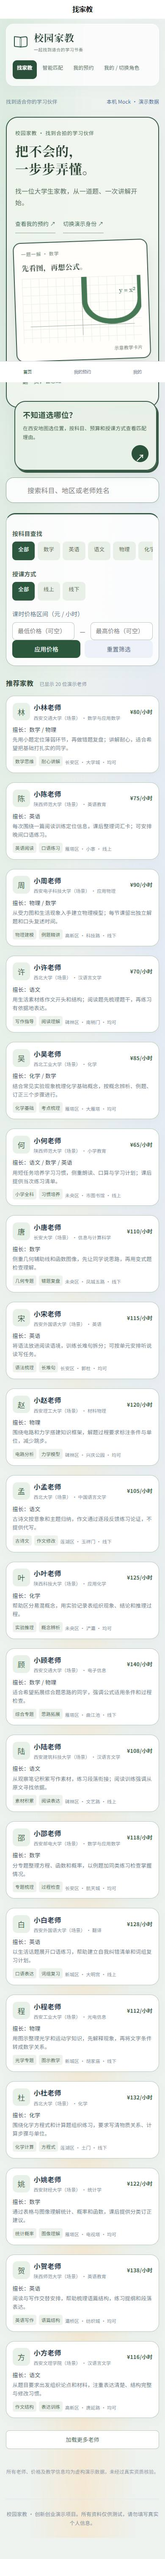
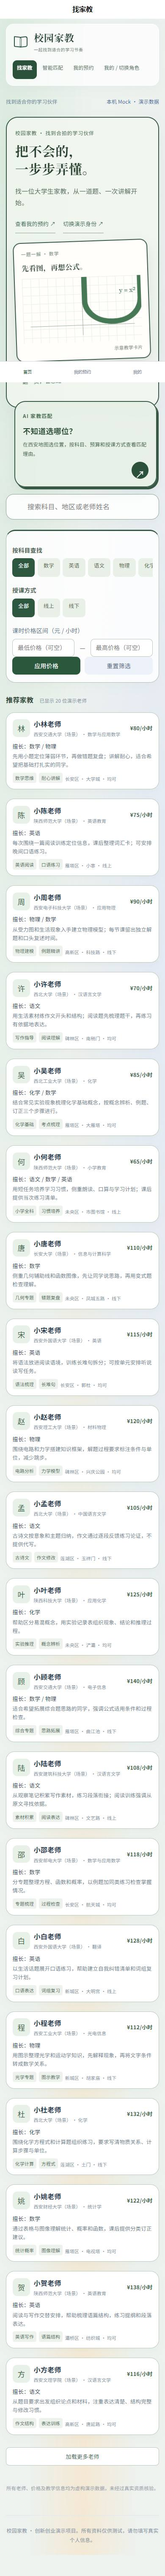
fix: restore AI matching entry for browser flows

Changed region(s): [[0.0308, 0.0, 0.9538, 0.9673], [0.6462, 0.8113, 0.7385, 0.8737]]

diff --git a/src/pages/index/index.vue b/src/pages/index/index.vue
@@ -66,7 +66,7 @@ const openProfile = () => uni.switchTab({ url: '/pages/profile/index' })
 <template>
   <ParentLayout title="找到适合你的学习伙伴" active="home"><view class="page">
     <view class="hero"><view class="hero-copy"><text class="eyebrow">校园家教 · 找到合拍的学习伙伴</text><text class="headline">把不会的，<br/>一步步弄懂。</text><text class="intro">找一位大学生家教，从一道题、一次讲解开始。</text><view class="links"><text @click="openOrders">查看我的预约 ↗</text><text @click="openProfile">切换演示身份 ↗</text></view></view><LessonFlip/></view>
-    <button class="ai-entry" @click="openMatch"><text class="ai-title">不知道选哪位？</text><text class="ai-note">在西安地图选位置，按科目、预算和授课方式查看匹配理由。</text><text class="ai-arrow" aria-hidden="true">↗</text></button>
+    <button class="ai-entry" @click="openMatch"><text class="ai-kicker">AI 家教匹配</text><text class="ai-title">不知道选哪位？</text><text class="ai-note">在西安地图选位置，按科目、预算和授课方式查看匹配理由。</text><text class="ai-arrow" aria-hidden="true">↗</text></button>
     <input v-model="query" class="search" placeholder="搜索科目、地区或老师姓名"/>
     <view class="filter-panel"><view class="heading">按科目查找</view>
     <scroll-view scroll-x><view class="filters"><text v-for="s in subjects" :key="s" class="chip" :class="{ active: subject === s }" @click="subject = s">{{ s }}</text></view></scroll-view>

diff --git a/src/styles/campus-theme.css b/src/styles/campus-theme.css
@@ -73,3 +73,5 @@ button:focus-visible,.chip:focus-visible,.b-chip:focus-visible,.brand:focus-visi
 .t-wrap.t-wrap .t-back{color:#2e6243}
 .t-wrap.t-wrap .t-preview{background:#f9fbf7;border-color:#a9c2aa}
 @media(max-width:700px){.t-wrap.t-wrap .t-hero{padding:20px 17px}.t-wrap.t-wrap .t-card{padding:18px 15px}}
+.parent-shell .ai-kicker{display:block;color:#476a4d;font-size:12px;font-weight:700;letter-spacing:.1em}
+@media(max-width:1000px){.parent-shell .page .ai-kicker{grid-column:1}.parent-shell .page .ai-arrow{grid-row:1/4}}
